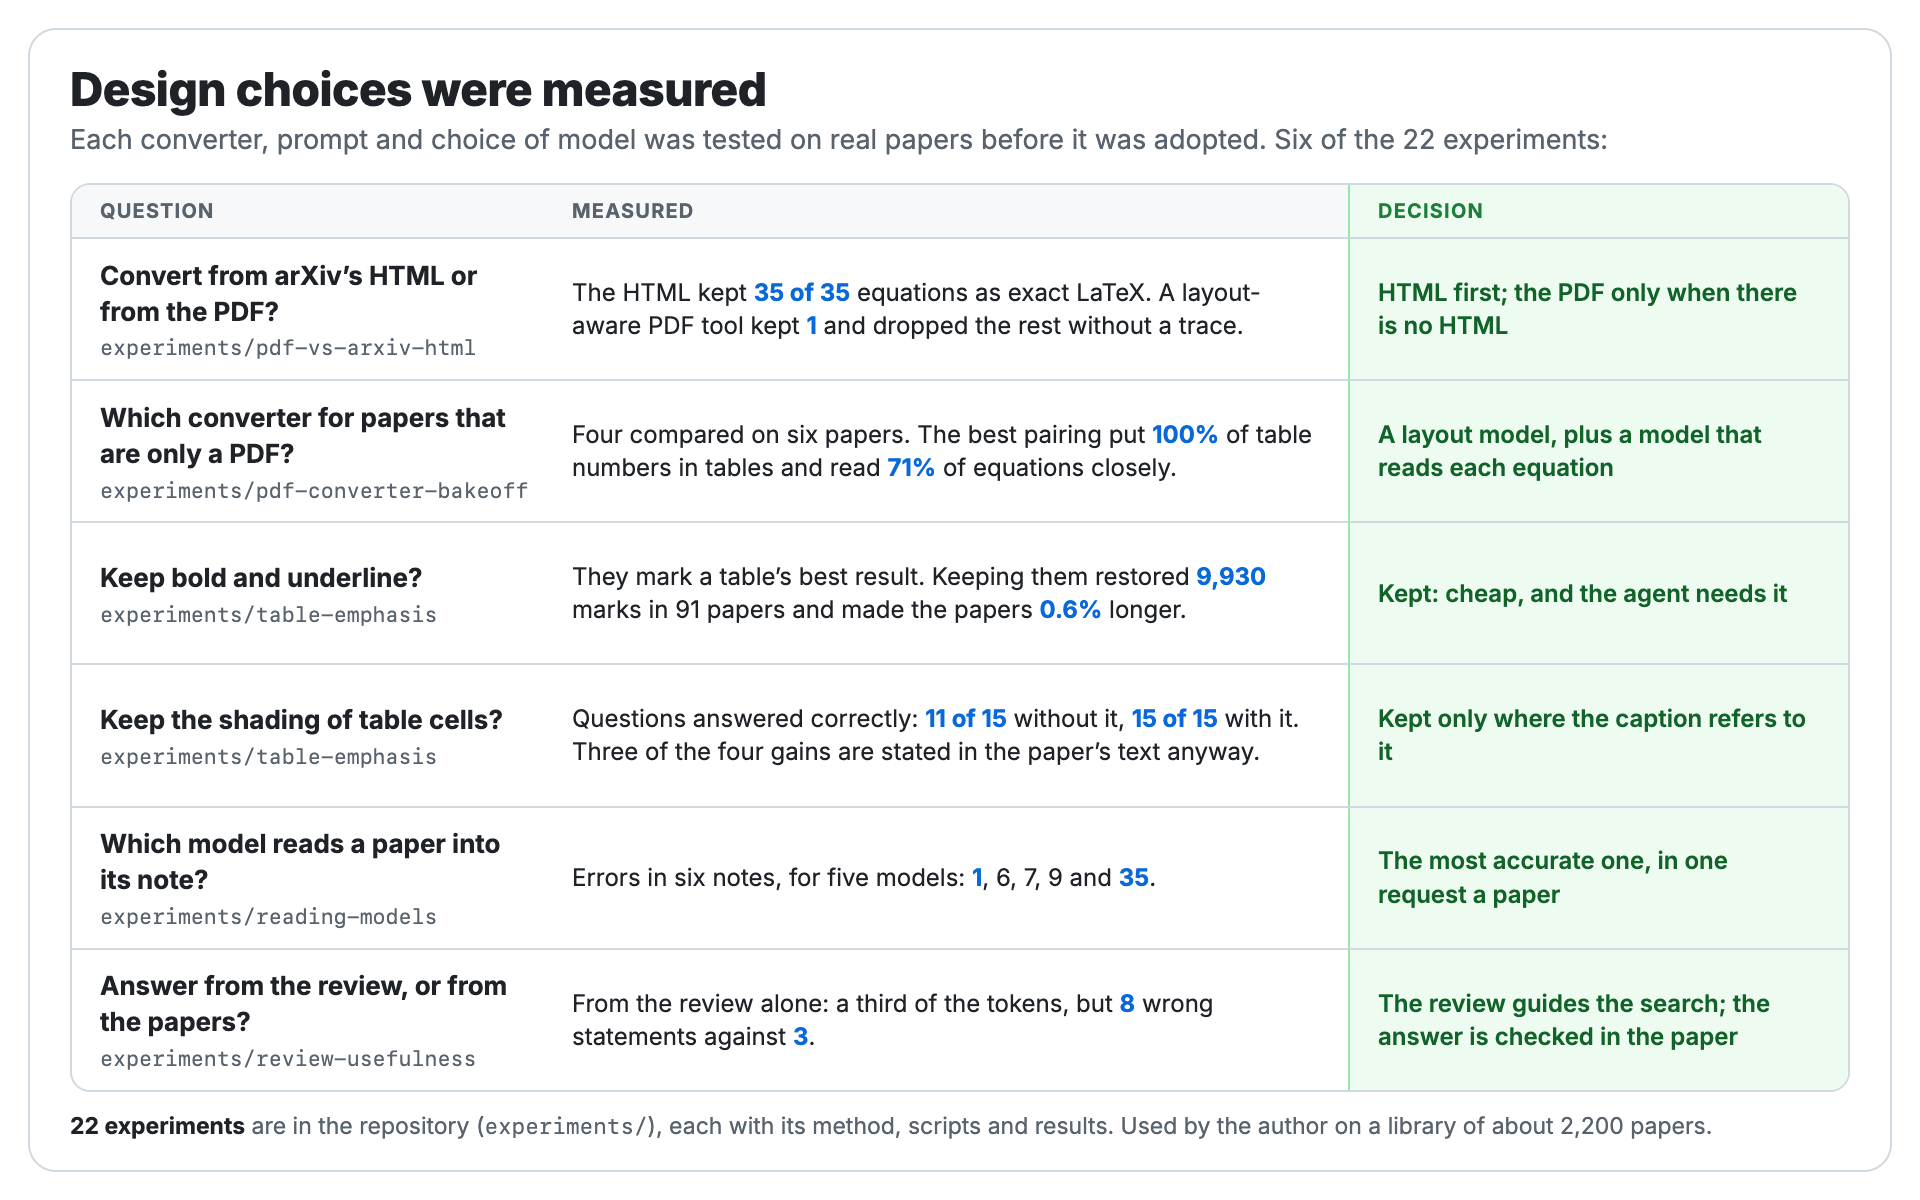
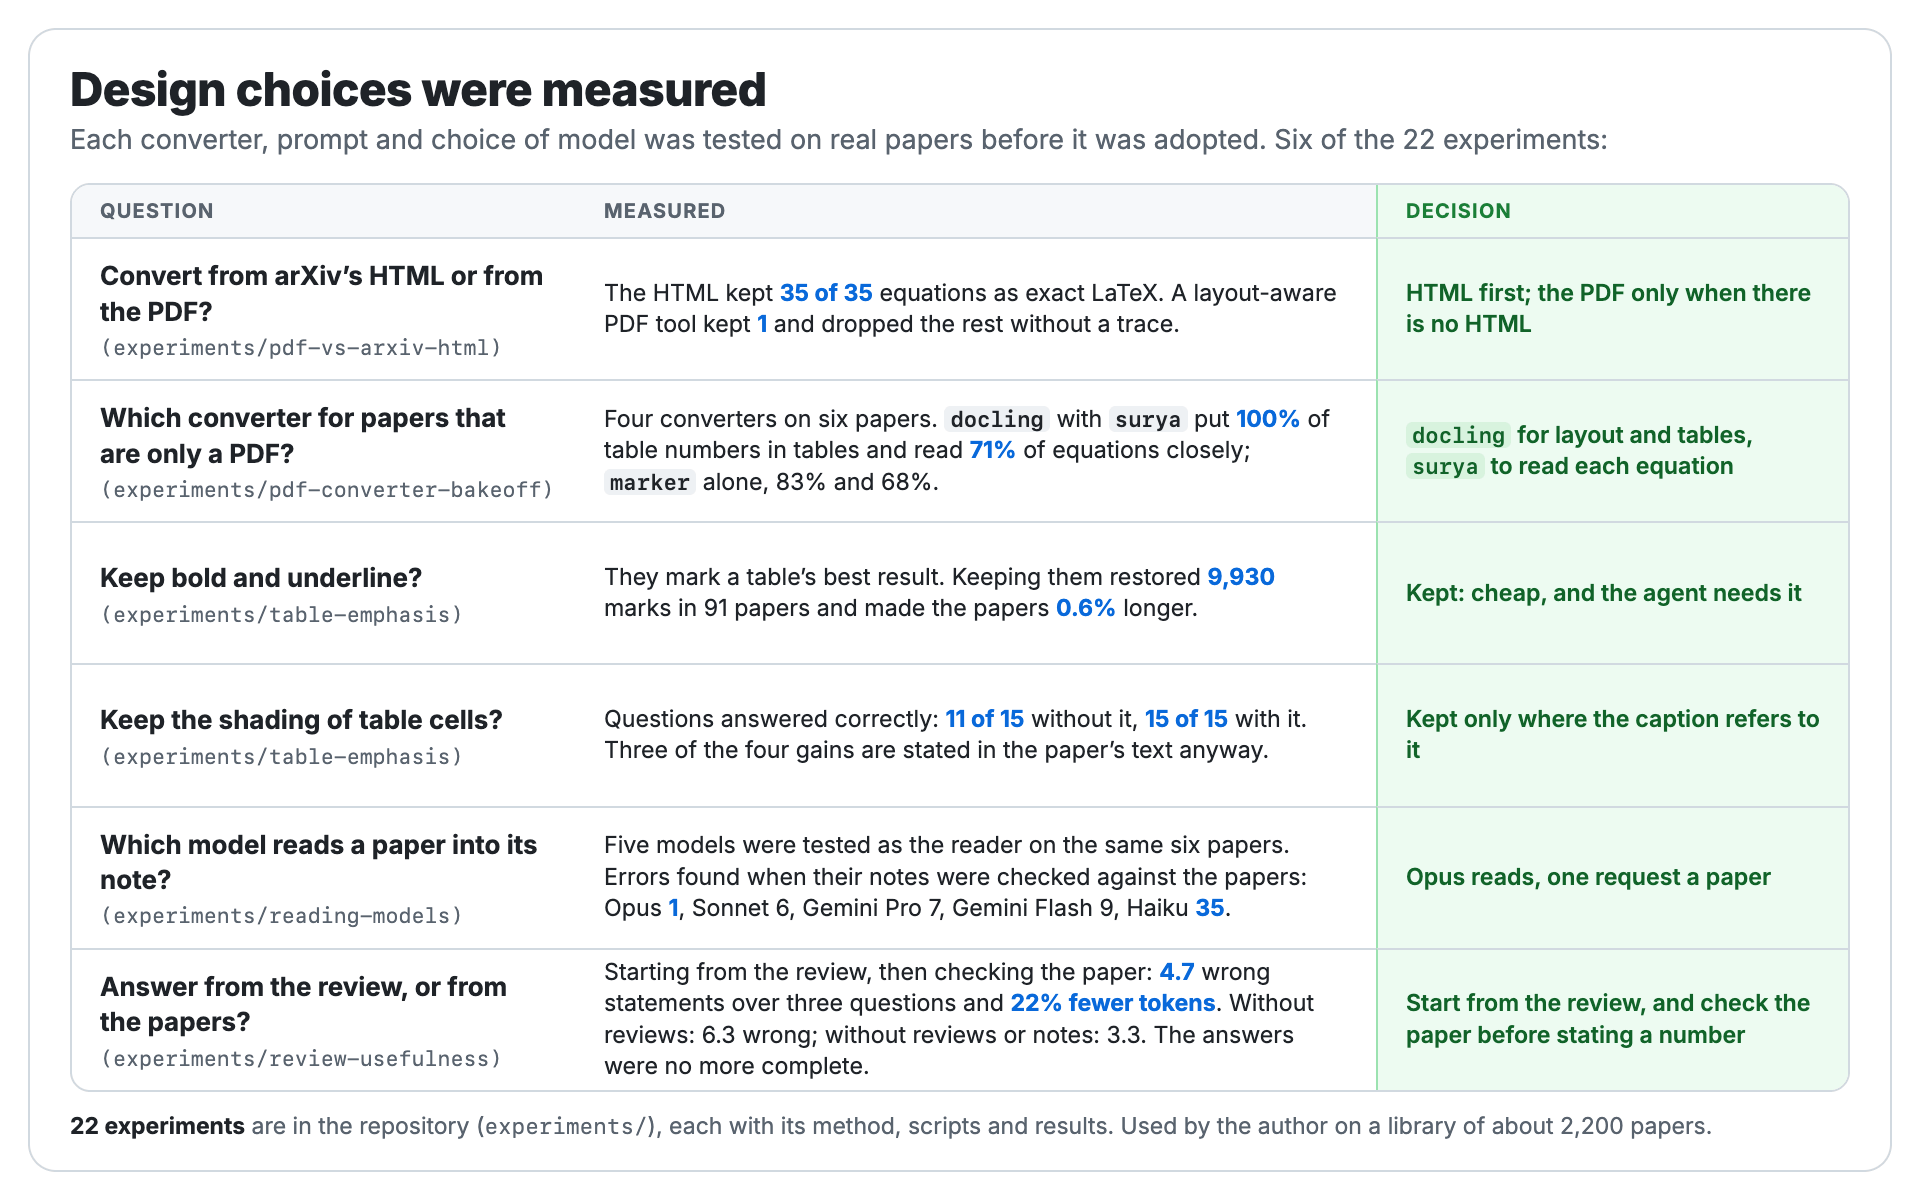
Redraw the README pictures around what the library does
- The first set led with experiments and internals; this one shows one function a picture, with a plain title, one sentence of why, and at most one measured line that names its experiment folder in brackets.
- Nine pictures: reading a paper in VS Code with Claude Code beside it, the Markdown conversion against the PDF and its extracted text, a quick look at a paper, adding a paper, the overview note, the literature review, finding missing papers and reorganising topics, fixing conversion errors, and six experiments as question, measurement and decision.
- The VS Code window is drawn after a screenshot of the example library, and the PDF content is real crops of the DPO paper (CC BY).
- The experiments table reports the shipped state: the review row uses the second run, with the rewritten rule (4.7 wrong statements and 22% fewer tokens, against 6.3 without reviews and 3.3 without reviews or notes).
- paperlib info says what its numbers are: the arXiv date is labelled "submitted", citations read "N in total, N a year, N where the citing paper builds on this one", and a folder with one paper says "1 paper".
- README: "What the measurements ruled out" becomes "How it was designed", and the Skills table gains /paper-info.
[…]

diff --git a/assets/pictures/experiments.html b/assets/pictures/experiments.html
@@ -2,7 +2,8 @@
 <!--
   Source of assets/pictures/experiments.png. Six rows, each from one write-up under experiments/:
   pdf-vs-arxiv-html, pdf-converter-bakeoff, table-emphasis (two rows), reading-models and
-  review-usefulness. The count of 22 is the number of rows in experiments/README.md, which also
+  review-usefulness (its second run, of 6 Oct 2026: the sums over the three questions a review
+  covers). The count of 22 is the number of rows in experiments/README.md, which also
   gives the size of the author's library. Render with assets/pictures/render.sh experiments.
 -->
 <html lang="en">
@@ -12,11 +13,13 @@
 <title>Design choices were measured</title>
 <link rel="stylesheet" href="style.css">
 <style>
-  .t { flex: 1 1 auto; display: grid; grid-template-columns: 236px 1fr 250px; grid-template-rows: 26px repeat(6, 1fr); border: 1px solid var(--line); border-radius: 10px; overflow: hidden; }
-  .t > div { padding: 0 14px; display: flex; flex-direction: column; justify-content: center; border-top: 1px solid var(--line); font-size: 12px; line-height: 1.38; min-width: 0; }
+  .t { flex: 1 1 auto; display: grid; grid-template-columns: 252px 1fr 236px; grid-template-rows: 26px repeat(6, 1fr); border: 1px solid var(--line); border-radius: 10px; overflow: hidden; }
+  .t > div { padding: 0 14px; display: flex; flex-direction: column; justify-content: center; border-top: 1px solid var(--line); font-size: 11.6px; line-height: 1.36; min-width: 0; }
   .t > .th { border-top: 0; background: var(--panel); font: 700 10px Inter, sans-serif; letter-spacing: .06em; text-transform: uppercase; color: var(--muted); height: 26px; }
   .t .q { font-weight: 700; font-size: 13px; }
   .t .q .exp { font-weight: 400; margin-top: 3px; }
+  .t code { font: 600 10.8px var(--mono); background: #eef1f4; border-radius: 3px; padding: 0 3px; }
+  .t .d code { background: #d8f3de; }
   .t .m b { color: var(--accent); font-weight: 700; }
   .t .d { background: var(--ok-bg); border-left: 1px solid var(--ok-line); font-weight: 600; color: #116329; }
   .t .th.d { color: var(--ok); font-weight: 700; }
@@ -32,29 +35,29 @@
   <div class="t">
     <div class="th">Question</div><div class="th">Measured</div><div class="th d">Decision</div>
 
-    <div class="q">Convert from arXiv’s HTML or from the PDF?<span class="exp">experiments/pdf-vs-arxiv-html</span></div>
+    <div class="q">Convert from arXiv’s HTML or from the PDF?<span class="exp">(experiments/pdf-vs-arxiv-html)</span></div>
     <div class="m"><span>The HTML kept <b>35 of 35</b> equations as exact LaTeX. A layout-aware PDF tool kept <b>1</b> and dropped the rest without a trace.</span></div>
     <div class="d">HTML first; the PDF only when there is no HTML</div>
 
-    <div class="q">Which converter for papers that are only a PDF?<span class="exp">experiments/pdf-converter-bakeoff</span></div>
-    <div class="m"><span>Four compared on six papers. The best pairing put <b>100%</b> of table numbers in tables and read <b>71%</b> of equations closely.</span></div>
-    <div class="d">A layout model, plus a model that reads each equation</div>
+    <div class="q">Which converter for papers that are only a PDF?<span class="exp">(experiments/pdf-converter-bakeoff)</span></div>
+    <div class="m"><span>Four converters on six papers. <code>docling</code> with <code>surya</code> put <b>100%</b> of table numbers in tables and read <b>71%</b> of equations closely; <code>marker</code> alone, 83% and 68%.</span></div>
+    <div class="d"><span><code>docling</code> for layout and tables, <code>surya</code> to read each equation</span></div>
 
-    <div class="q">Keep bold and underline?<span class="exp">experiments/table-emphasis</span></div>
+    <div class="q">Keep bold and underline?<span class="exp">(experiments/table-emphasis)</span></div>
     <div class="m"><span>They mark a table’s best result. Keeping them restored <b>9,930</b> marks in 91 papers and made the papers <b>0.6%</b> longer.</span></div>
     <div class="d">Kept: cheap, and the agent needs it</div>
 
-    <div class="q">Keep the shading of table cells?<span class="exp">experiments/table-emphasis</span></div>
+    <div class="q">Keep the shading of table cells?<span class="exp">(experiments/table-emphasis)</span></div>
     <div class="m"><span>Questions answered correctly: <b>11 of 15</b> without it, <b>15 of 15</b> with it. Three of the four gains are stated in the paper’s text anyway.</span></div>
     <div class="d">Kept only where the caption refers to it</div>
 
-    <div class="q">Which model reads a paper into its note?<span class="exp">experiments/reading-models</span></div>
-    <div class="m"><span>Errors in six notes, for five models: <b>1</b>, 6, 7, 9 and <b>35</b>.</span></div>
-    <div class="d">The most accurate one, in one request a paper</div>
+    <div class="q">Which model reads a paper into its note?<span class="exp">(experiments/reading-models)</span></div>
+    <div class="m"><span>Five models were tested as the reader on the same six papers. Errors found when their notes were checked against the papers: Opus <b>1</b>, Sonnet 6, Gemini Pro 7, Gemini Flash 9, Haiku <b>35</b>.</span></div>
+    <div class="d">Opus reads, one request a paper</div>
 
-    <div class="q">Answer from the review, or from the papers?<span class="exp">experiments/review-usefulness</span></div>
-    <div class="m"><span>From the review alone: a third of the tokens, but <b>8</b> wrong statements against <b>3</b>.</span></div>
-    <div class="d">The review guides the search; the answer is checked in the paper</div>
+    <div class="q">Answer from the review, or from the papers?<span class="exp">(experiments/review-usefulness)</span></div>
+    <div class="m"><span>Starting from the review, then checking the paper: <b>4.7</b> wrong statements over three questions and <b>22% fewer tokens</b>. Without reviews: 6.3 wrong; without reviews or notes: 3.3. The answers were no more complete.</span></div>
+    <div class="d">Start from the review, and check the paper before stating a number</div>
   </div>
 
   <div class="foot"><b>22 experiments</b> are in the repository (<span class="exp" style="font-size: 11px">experiments/</span>), each with its method, scripts and results. Used by the author on a library of about 2,200 papers.</div>

diff --git a/README.md b/README.md
@@ -102,7 +102,7 @@ paperlib build-index && paperlib check
 
 Every change to a converter, a prompt or a skill is measured on real papers before it is kept, and some were dropped. The write-ups, with their results and limits, are in [experiments/](experiments/README.md).
 
-![Design choices were measured. Six of the 22 experiments, each as question, measurement and decision. Convert from arXiv's HTML or from the PDF: the HTML kept 35 of 35 equations as exact LaTeX and a layout-aware PDF tool kept 1, so HTML first. Which converter for papers that are only a PDF: of four compared on six papers the best pairing put 100% of table numbers in tables and read 71% of equations closely, so a layout model plus a model that reads each equation. Keep bold and underline: kept, at 0.6% more text. Keep the shading of table cells: 11 of 15 questions answered without it and 15 of 15 with it, so kept only where the caption refers to it. Which model reads a paper into its note: errors in six notes were 1, 6, 7, 9 and 35 for five models, so the most accurate one. Answer from the review or from the papers: from the review alone a third of the tokens but 8 wrong statements against 3, so the review guides the search and the answer is checked in the paper.](assets/pictures/experiments.png)
+![Design choices were measured. Six of the 22 experiments, each as question, measurement and decision. Convert from arXiv's HTML or from the PDF: the HTML kept 35 of 35 equations as exact LaTeX and a layout-aware PDF tool kept 1, so HTML first. Which converter for papers that are only a PDF: of four compared on six papers, docling with surya put 100% of table numbers in tables and read 71% of equations closely, against 83% and 68% for marker alone, so docling for layout and tables and surya to read each equation. Keep bold and underline: kept, at 0.6% more text. Keep the shading of table cells: 11 of 15 questions answered correctly without it and 15 of 15 with it, three of the four gains being stated in the paper's text anyway, so it is kept only where the caption refers to it. Which model reads a paper into its note: five models were tested as the reader on the same six papers, and the errors found when their notes were checked against the papers numbered 1 for Opus, 6 for Sonnet, 7 for Gemini Pro, 9 for Gemini Flash and 35 for Haiku, so Opus reads. Answer from the review or from the papers: sessions that start from the review and then check the paper made 4.7 wrong statements over three questions with 22% fewer tokens, against 6.3 without reviews and 3.3 without reviews or notes, and answers no more complete, so start from the review and check the paper before stating a number. Each row names its folder under experiments/.](assets/pictures/experiments.png)
 
 ## Documentation
 
